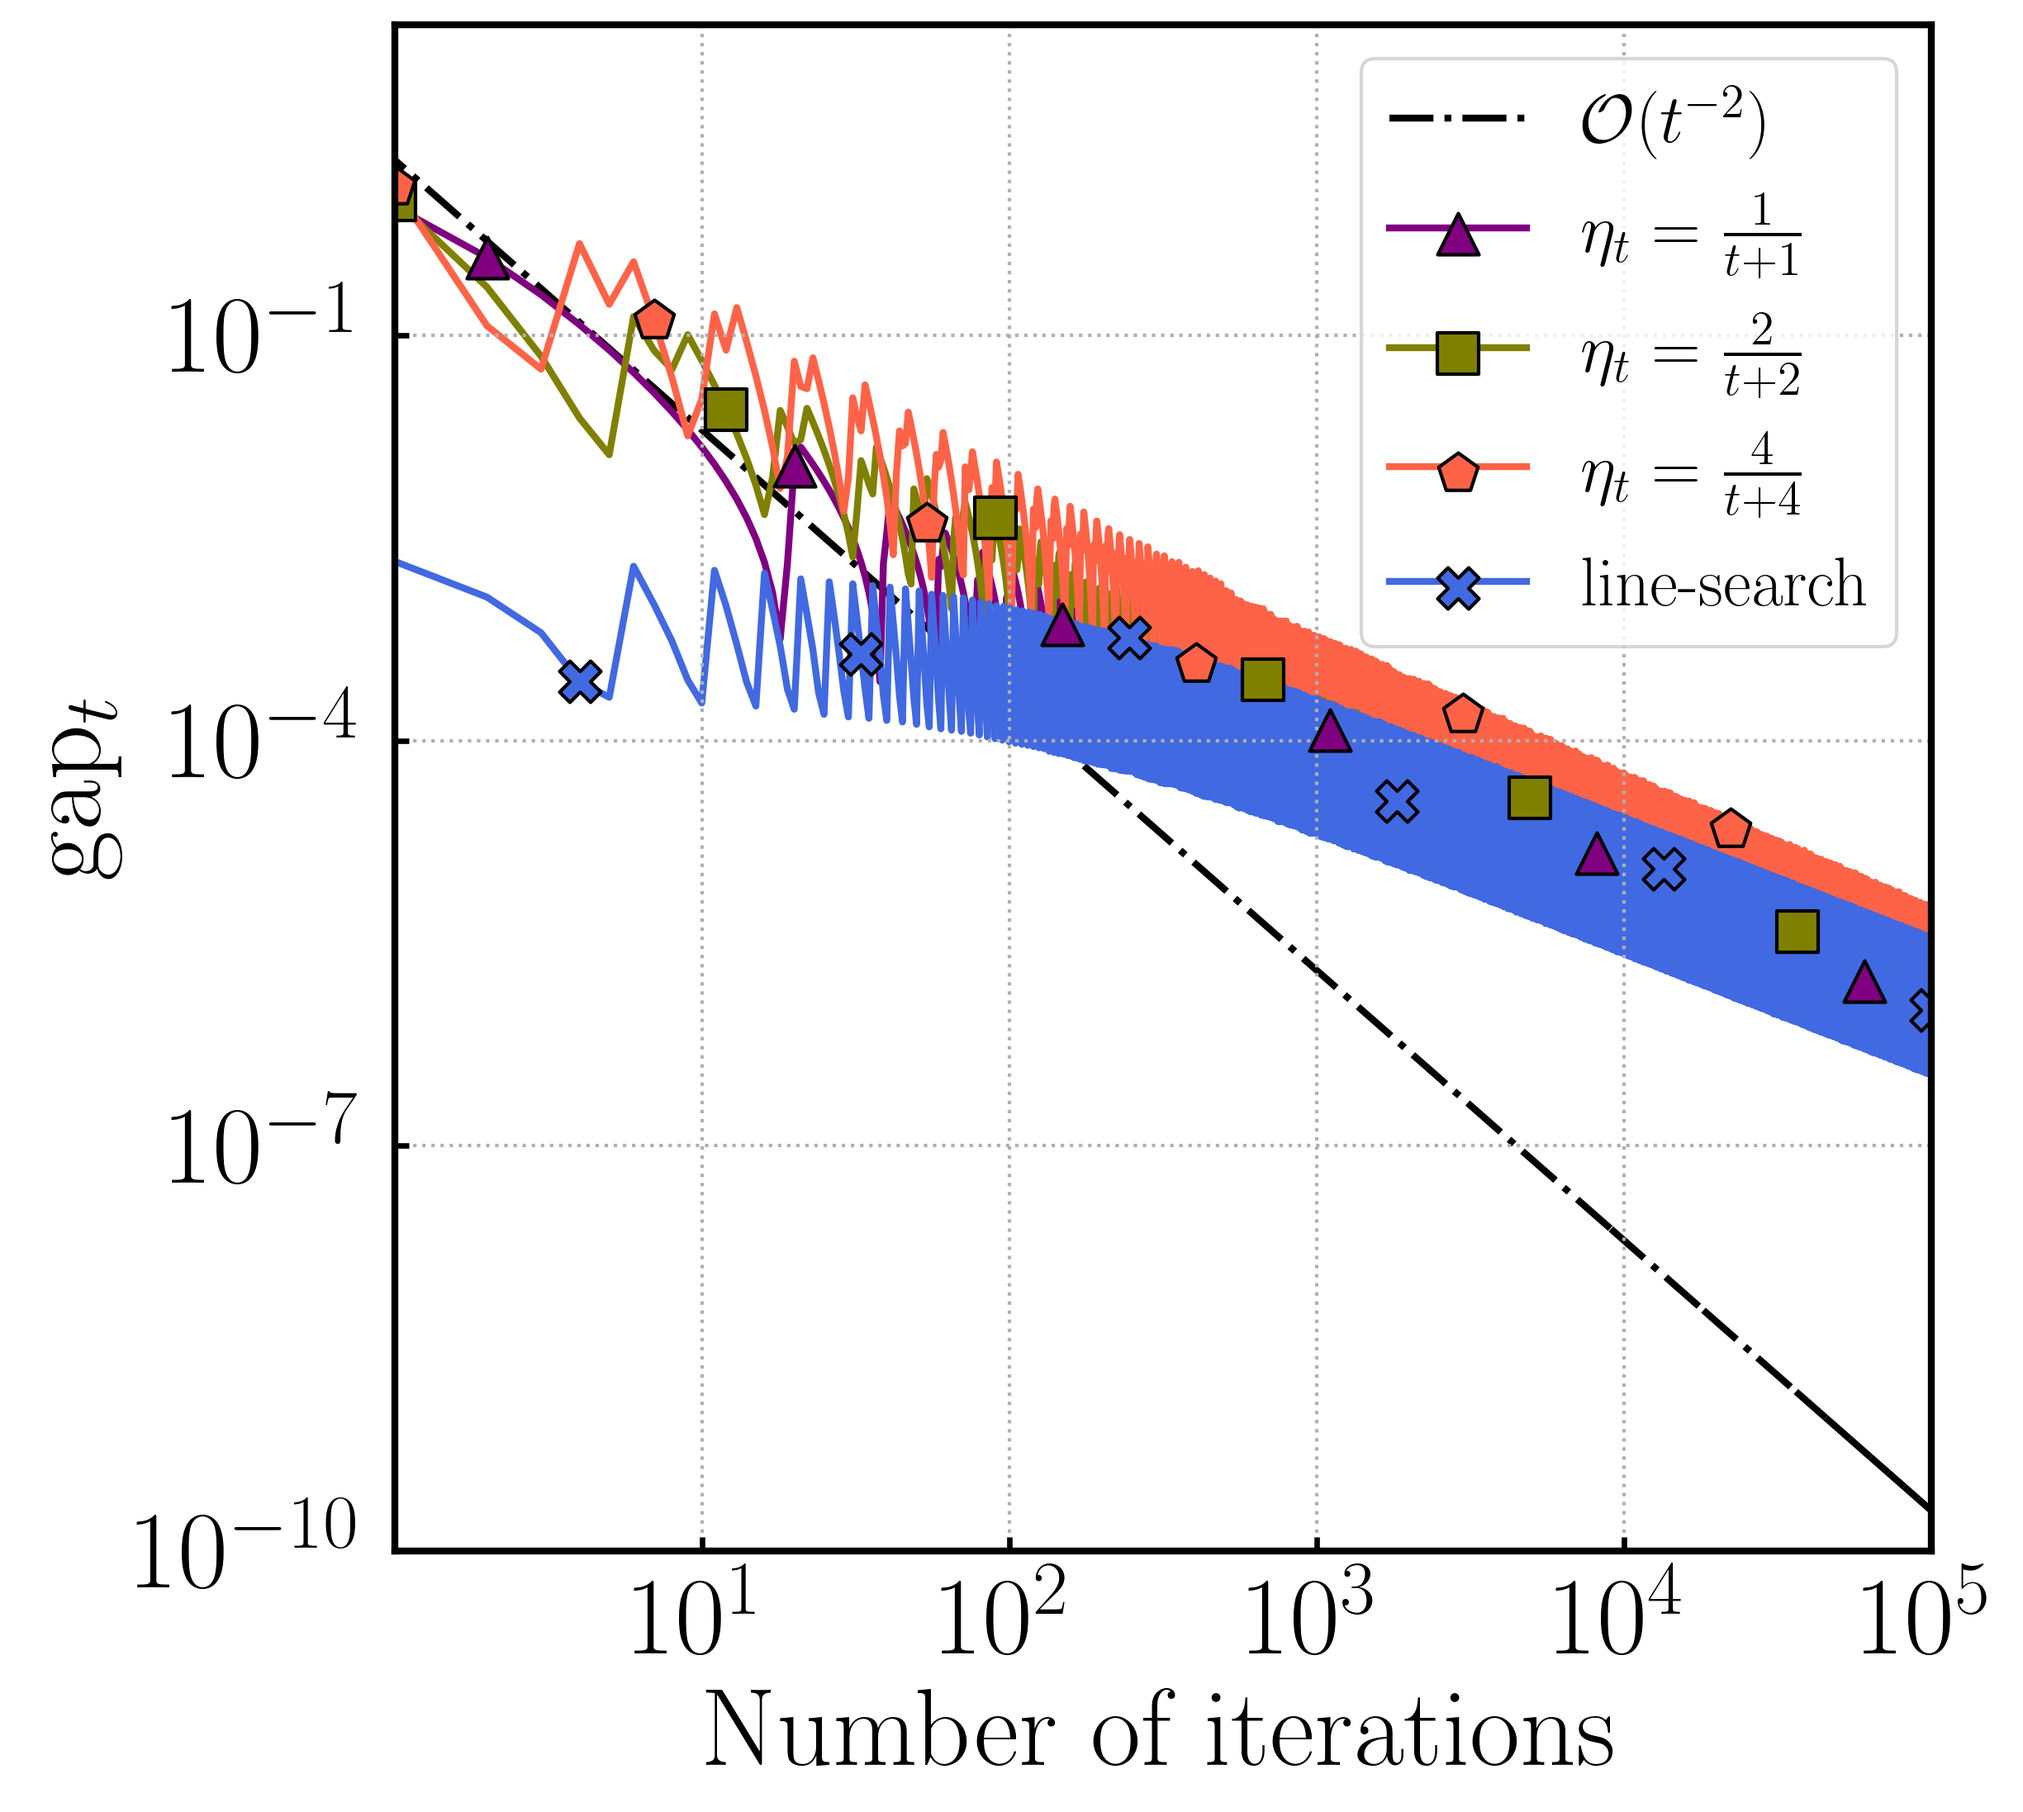
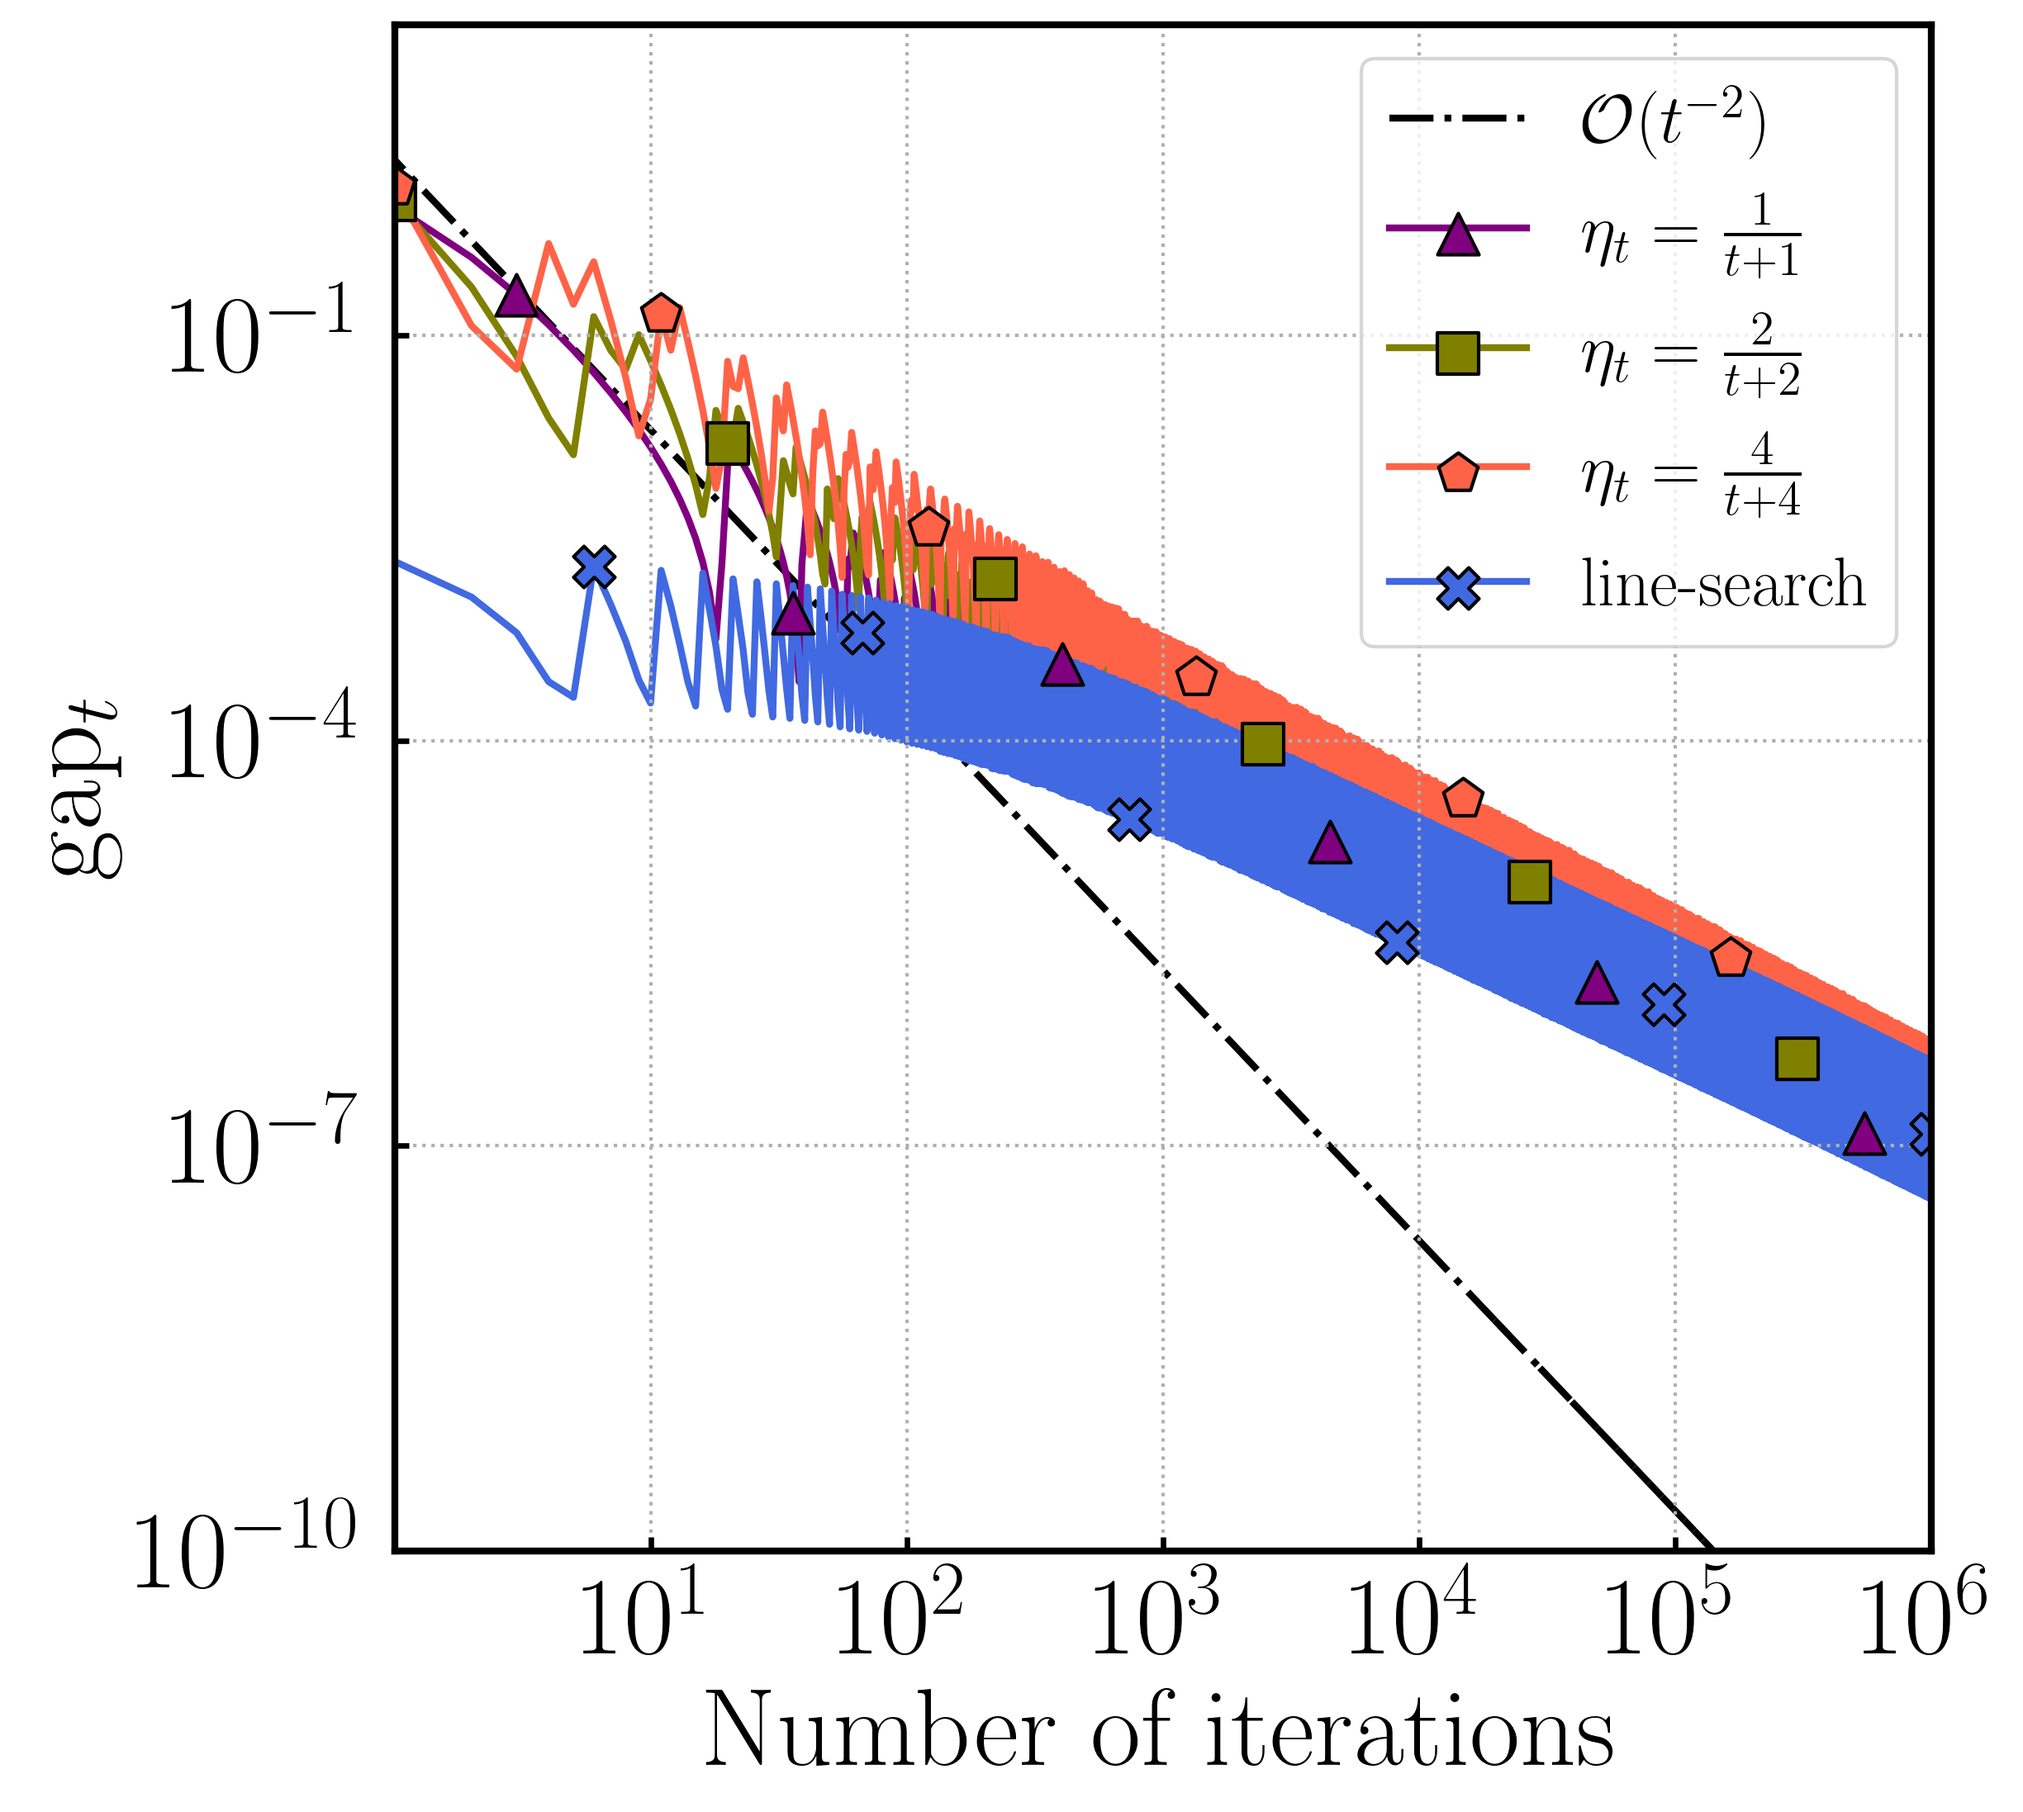
.

diff --git a/experiments/polytope_ls_ol.py b/experiments/polytope_ls_ol.py
@@ -49,9 +49,11 @@ all_primal_dual_gaps = [primal_dual_gap[1:ITERATIONS_MANY] for primal_dual_gap i
 
 gap_0 = max([max(i) for i in all_dual_gaps])
 all_primal_gaps, labels, styles, colors, markers = create_reference_lines_automatically(
-    all_primal_gaps, labels, None, None, gap_0, colors=COLORS_ALTERNATIVE_2)
-all_dual_gaps, _, _, _, _ = create_reference_lines_automatically(all_dual_gaps, labels, None, None, gap_0)
-all_primal_dual_gaps, _, _, _, _ = create_reference_lines_automatically(all_primal_dual_gaps, labels, None, None, gap_0)
+    all_primal_gaps, labels, None, None, gap_0, iterations=ITERATIONS_MANY, colors=COLORS_ALTERNATIVE_2)
+all_dual_gaps, _, _, _, _ = create_reference_lines_automatically(all_dual_gaps, labels, None, None, gap_0,
+                                                                 iterations=ITERATIONS_MANY)
+all_primal_dual_gaps, _, _, _, _ = create_reference_lines_automatically(all_primal_dual_gaps, labels, None, None, gap_0,
+                                                                        iterations=ITERATIONS_MANY)
 file_name = ("polytope_ls_ol" + "_l1_ball" + "_rho=" + str(rho) + "_kappa=" + str(kappa))
 
 y_label = "subopt" + r"$_t$"

diff --git a/experiments/regression.py b/experiments/regression.py
@@ -65,9 +65,11 @@ for p in ps:
 
     gap_0 = max([max(i) for i in all_dual_gaps])
     all_primal_gaps, labels, styles, colors, markers = create_reference_lines_automatically(
-        all_primal_gaps, labels, 1, l, gap_0, colors=COLORS_ALTERNATIVE)
-    all_dual_gaps, _, _, _, _ = create_reference_lines_automatically(all_dual_gaps, labels, 1, l, gap_0)
-    all_primal_dual_gaps, _, _, _, _ = create_reference_lines_automatically(all_primal_dual_gaps, labels, 1, l, gap_0)
+        all_primal_gaps, labels, 1, l, gap_0, iterations=ITERATIONS_MANY, colors=COLORS_ALTERNATIVE)
+    all_dual_gaps, _, _, _, _ = create_reference_lines_automatically(all_dual_gaps, labels, 1, l, gap_0,
+                                                                     iterations=ITERATIONS_MANY)
+    all_primal_dual_gaps, _, _, _, _ = create_reference_lines_automatically(all_primal_dual_gaps, labels, 1, l, gap_0,
+                                                                            iterations=ITERATIONS_MANY)
     file_name = ("regression" + "_p=" + str(round(p, 2)) + "_l=" + str(l))
 
 

diff --git a/experiments/collaborative_filtering.py b/experiments/collaborative_filtering.py
@@ -39,7 +39,8 @@ for radius in radii:
             primal_gaps[0][1:ITERATIONS_FEW]]
     labels = ["gap" + r'$_t$', "primaldual" + r'$_t$', "subopt" + r'$_t$']
     gap_0 = dual_gaps[0][0]
-    gaps, labels, styles, colors, markers = create_reference_lines_automatically(gaps, labels, 1, l, gap_0)
+    gaps, labels, styles, colors, markers = create_reference_lines_automatically(gaps, labels, 1, l, gap_0,
+                                                                                 iterations=ITERATIONS_FEW)
     file_name = ("collaborative_filtering" +  "_radius=" + str(radius) + "_l=" + str(l))
 
     gap_plotter(y_data=gaps,

diff --git a/global_.py b/global_.py
@@ -18,7 +18,7 @@ DIMENSION = 100
 ITERATIONS = 100000
 RUN_MORE = 5 * ITERATIONS
 ITERATIONS_MANY = 1000000
-RUN_MORE_MANY = 3 * ITERATIONS_MANY
+RUN_MORE_MANY = 5 * ITERATIONS_MANY
 ITERATIONS_FEW = 10000
 RUN_MORE_FEW = 5 * ITERATIONS_FEW
 

diff --git a/README.md b/README.md
@@ -46,6 +46,9 @@ To perform the experiments in the paper:
 >>> python3 -m experiments.polytope
 ```
 ```python3 script
+>>> python3 -m experiments.polytope_ls_ol
+```
+```python3 script
 >>> python3 -m experiments.regression
 ```
 ```python3 script
@@ -54,7 +57,5 @@ To perform the experiments in the paper:
 ```python3 script
 >>> python3 -m experiments.weak_boundary_growth
 ```
-
-
 
 The experiments are then stored in ~/tmp/experiments/figures.
